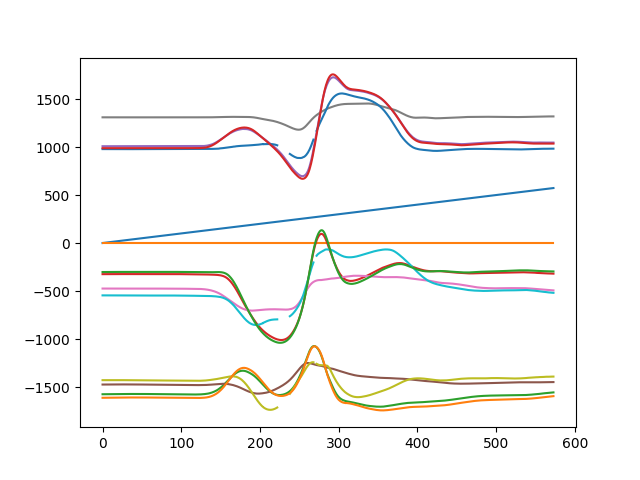
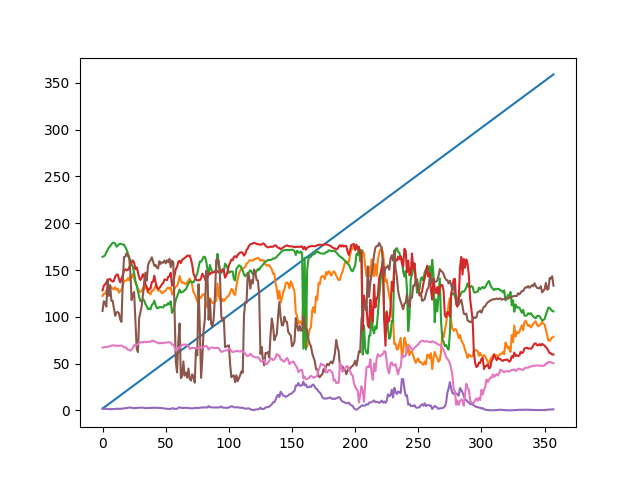
save my local changes

diff --git a/webapp/templates/analyse.html b/webapp/templates/analyse.html
@@ -189,8 +189,7 @@
       <div class="page-banner">
         <h1 class="page-title">ANALYSE YOUR SERVE</h1>
         <p class="page-sub">
-          Upload your Vicon CSV file and compare your serve to our reference
-          model.
+          Upload your serve to serve like your favorite player.
         </p>
       </div>
 
@@ -205,12 +204,13 @@
               type="file"
               name="media"
               id="fileInput"
-              accept=".csv"
+              accept="video/*"
+              accept="file"
               required
             />
             <div class="upload-icon">⬆️</div>
-            <h3>UPLOAD CSV FILE</h3>
-            <p>Upload your Vicon motion capture data (.csv)</p>
+            <h3>UPLOAD YOUR SERVE VIDEO</h3>
+            <p>Upload your serve video to get detailed feedback</p>
           </div>
 
           <div class="selected-name" id="selectedName"></div>
@@ -221,8 +221,7 @@
 
           <div class="reference-box">
             <strong>Reference Model:</strong><br />
-            Your serve will be compared against a model built from multiple
-            recorded serves of Max using Vicon motion capture.
+            Your serve will be compared against your selected player.
           </div>
         </div>
       </form>

diff --git a/webapp/templates/index.html b/webapp/templates/index.html
@@ -310,12 +310,12 @@
       <h1 class="hero-title">ELEVATE<br>YOUR <span class="accent">GAME.</span></h1>
       <p class="hero-desc">
         ACE uses your data to analyse your tennis  instantly.
-        Upload your data to get detailed feedback on your
+        Upload your serve video to get detailed feedback on your
         form, body mechanics, and swing path and learn to serve like your favorite players<br><br>
         <strong>See exactly what your serve looks like </strong>
       </p>
       <div class="hero-actions">
-        <a href="{{ url_for('analyse') }}" class="btn-main"> UPLOAD CSV FILE</a>
+        <a href="{{ url_for('analyse') }}" class="btn-main"> UPLOAD YOUR SERVE</a>
       </div>
     </div>
   </section>
@@ -333,10 +333,10 @@
     <div class="how-inner">
       <div class="section-label">How it works</div>
       <div class="how-grid">
-        <div class="how-step"><div class="step-num">01</div><h3>Capture YOUR Serve</h3><p>Export your captured data from VICON</p></div>
-        <div class="how-step"><div class="step-num">02</div><h3>UPLOAD YOUR FILE</h3><p>Upload your CSV data to ACE. We handle the rest automatically.</p></div>
-        <div class="how-step"><div class="step-num">03</div><h3>AI analysis</h3><p>Our ML engine compares your serve to your choice of player</p></div>
-        <div class="how-step"><div class="step-num">04</div><h3>GET YOUR FEEDBACK</h3><p>Receive a score and a clear breakdown of your posture, racket path, and footwork with tips to improve.</p></div>
+        <div class="how-step"><div class="step-num">01</div><h3>Capture YOUR Serve</h3><p>Capture or record your serve in VICON or Mediapipe</p></div>
+        <div class="how-step"><div class="step-num">02</div><h3>UPLOAD YOUR FILE</h3><p>Upload your serve video to ACE</p></div>
+        <div class="how-step"><div class="step-num">03</div><h3>Choose Player</h3><p> Chose your favorite player for comparison </p></div>
+        <div class="how-step"><div class="step-num">04</div><h3>Receive Feedback</h3><p>Receive a score and a clear breakdown of your posture, racket path, and footwork with tips to improve.</p></div>
       </div>
     </div>
   </section>

diff --git a/webapp/templates/result.html b/webapp/templates/result.html
@@ -34,7 +34,7 @@
 
       .card {
         background: #0f1318;
-        border: 1px solid #1e2530;
+        border: 1px solid #141b17;
         border-radius: 12px;
         padding: 1.5rem;
         margin-top: 1.5rem;
@@ -91,10 +91,11 @@
       </div>
 
       <!-- ACTIONS -->
-      <div style="margin-top: 2rem">
-        <a href="{{ url_for('analyse') }}">Analyse Another</a> |
-        <a href="{{ url_for('myprogress') }}">My Progress</a>
-      </div>
+      <!-- ACTIONS -->
+    <div style="margin-top: 2rem">
+      <a href="{{ url_for('analyse') }}" style="color: #ffffff; text-decoration: none;">Analyse Another</a> 
+      <span style="color: #5a6470;"> | </span>
+      <a href="{{ url_for('myprogress') }}" style="color: #fbfbfb; text-decoration: none;">My Progress</a>
     </div>
   </body>
 </html>